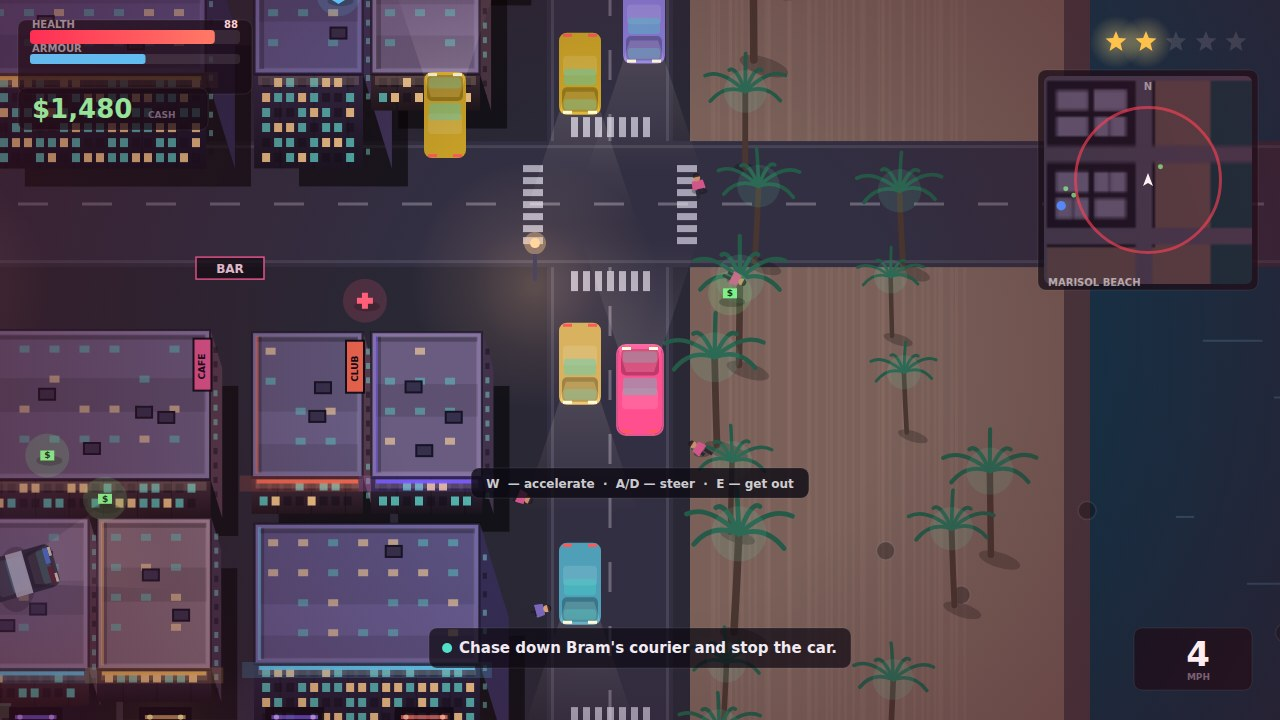
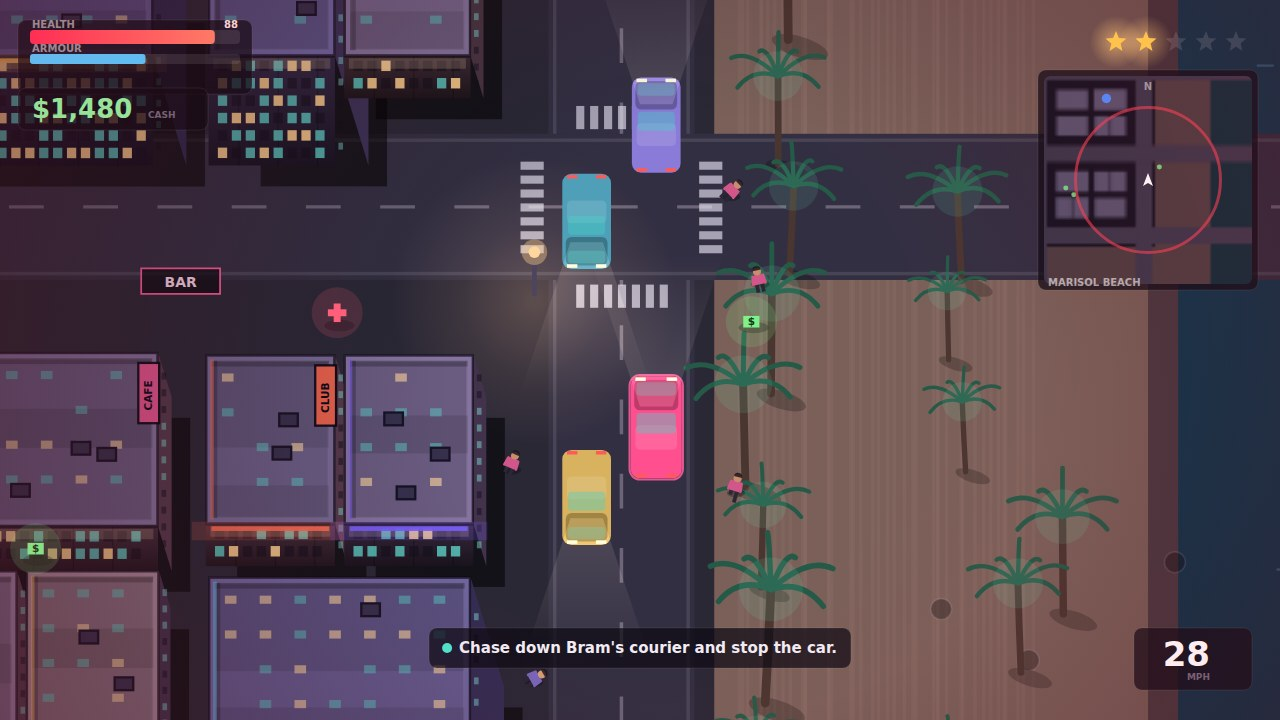
screenshots: real renders of the cover, on-foot, wanted chase and mission briefing
Four deterministic ?shot=N stages captured in headless Chrome at 1280x720
(108-117 KiB each): cover on the coastal avenue with traffic and a live
objective, on-foot beside the Coral Room with Dessa's dialogue, a four-star
pursuit with cruisers boxing the hero in, and the Pay-In briefing card.
Camera framing, staged traffic spacing and the cop-car livery were retuned
so each scene reads at a glance.

diff --git a/game/src/shots.js b/game/src/shots.js
@@ -25,6 +25,11 @@ export function applyShot(world, index) {
       w: 44,
       h: 88,
     });
+    // Caught at cruising speed: a still of a parked car reads as a parked car.
+    car.speed = 330;
+    car.vx = Math.cos(car.angle) * 330;
+    car.vy = Math.sin(car.angle) * 330;
+    car.stageAnchor = { x: car.x, y: car.y };
     world.cars.push(car);
     p.inCar = car;
     p.x = car.x;
@@ -40,40 +45,41 @@ export function applyShot(world, index) {
     world.missionManager.setStep(0);
     // Objective line only — the briefing box would eat half the frame in a still.
     world.missionManager.dialogueIndex = world.missionManager.dialogue.length;
-    world.combat.addPickup(avenue + 120, 1460, 'cash', 60);
-    // Own lane stays clear so the car actually rolls; the oncoming lane and the far
-    // block behind carry the traffic that makes the street read as alive.
-    // Traffic lives in the opposite lane (and one car well ahead in ours), so nothing can
-    // rear-end the hero two frames in and spin it sideways mid-capture.
+    world.combat.addPickup(avenue + 112, 1466, 'cash', 60);
+    // The hero is pinned at its mark; staged cars keep their own speed, so they're placed
+    // where they'll be ~1.15 s after load rather than where they start. Both lanes carry
+    // traffic: the avenue should read as a street in use, not a runway.
     addShotCars(world, [
-      [avenue - 30, 1720, Math.PI / 2, '#4f9fb8'],
-      [avenue - 30, 1500, Math.PI / 2, '#d8b25f'],
-      [avenue - 30, 1210, Math.PI / 2, '#c9a227'],
-      [avenue - 30, 940, Math.PI / 2, '#c8556f'],
-      [avenue + 30, 980, -Math.PI / 2, '#8a7bd8'],
-      [avenue + 30, 560, -Math.PI / 2, '#7ec8a0'],
+      // Placed where the shutter sees them, and held there: a car given a velocity for
+      // 1.15 s of load grace ends up half a block from where the shot was composed.
+      [avenue + 30, 1300, -Math.PI / 2, '#8a7bd8'],
+      [avenue - 30, 1382, Math.PI / 2, '#4f9fb8'],
+      [avenue - 30, 1620, Math.PI / 2, '#d8b25f'],
     ]);
     for (const c of world.cars) {
-      if (c.staged) c.vy = c.vy > 0 ? 210 : -240;
+      if (!c.staged) continue;
+      c.vx = 0;
+      c.vy = 0;
+      c.stageHold = true;
     }
     addShotPeds(world, [
-      [avenue + 96, 1620], [avenue + 118, 1440], [avenue - 96, 1660], [avenue + 90, 1360],
+      [avenue + 96, 1620], [avenue + 120, 1440], [avenue - 98, 1600], [avenue + 92, 1360],
     ]);
     // Ambient traffic keeps spawning on its own schedule and was parking itself on top
-    // of the hero. Keep only the staged cars, the cruisers, and anything genuinely far away.
-    world.cars = world.cars.filter((c) => c === car || c.staged
-      || Math.hypot(c.x - car.x, c.y - car.y) > 300);
+    // of the hero. Keep only the staged cars and the hero inside the frame.
+    world.cars = world.cars.filter((c) => c === car || c.staged);
     world.traffic.cars = world.cars.filter((c) => c.driver === 'traffic');
     world.traffic.target = 0;
-    world.hint = 'W  — accelerate  ·  A/D — steer  ·  E — get out';
-    return { offset: { x: 0, y: -30 }, zoom: 1.0, autoThrottle: 1, lockCamera: true };
+    // No tutorial hint on the cover: it lands dead centre and cuts the hero car in half.
+    world.hint = '';
+    return { offset: { x: -10, y: 6 }, zoom: 1.2, stageSpeed: 330, lockCamera: true };
   }
 
   if (n === 2) {
     // On foot: the sidewalk in front of the Coral Room, the delivery marker glowing over
     // the door, pedestrians about, cash on the ground. The whole first job in one frame.
     const door = { x: ROAD_X[1] + 360, y: ROAD_Y[1] - 250 };
-    const stand = safePoint(city, door.x + 54, door.y + 96);
+    const stand = safePoint(city, door.x - 14, door.y + 104);
     p.x = stand.x;
     p.y = stand.y;
     p.heading = -Math.PI / 2;
@@ -85,7 +91,7 @@ export function applyShot(world, index) {
     world.missionManager.start(0);
     world.missionManager.state = 'active';
     world.missionManager.setStep(1);
-    world.combat.addPickup(p.x + 104, p.y + 26, 'cash', 120);
+    world.combat.addPickup(p.x + 168, p.y - 34, 'cash', 120);
     world.combat.addPickup(p.x - 150, p.y - 90, 'health', 35);
     addShotPeds(world, [
       [p.x + 96, p.y - 96], [p.x - 74, p.y - 40], [p.x + 168, p.y + 70],
@@ -99,7 +105,7 @@ export function applyShot(world, index) {
       [p.x + 470, p.y + 96, 0, '#8a7bd8'],
     ]);
     world.hint = 'WASD to walk  ·  SHIFT to sprint  ·  click to fire';
-    return { offset: { x: 4, y: 30 }, zoom: 2.15, lockCamera: true };
+    return { offset: { x: -4, y: -34 }, zoom: 1.8, lockCamera: true };
   }
 
   if (n === 3) {
@@ -133,7 +139,7 @@ export function applyShot(world, index) {
     // survives the car rolling forward.
     world.police.stage = true;
     const slot = [
-      [-78, -150], [96, -192], [-16, -238], [-132, -282], [110, -326],
+      [-104, -48], [104, -60], [-48, -104], [-152, -128], [132, -120],
     ];
     for (let i = 0; i < slot.length; i++) {
       const cop = world.police.spawnCop({ player: { x: car.x, y: car.y + slot[i][1], heading: Math.PI / 2 } });
@@ -156,13 +162,13 @@ export function applyShot(world, index) {
     // mid-capture, and their headlights read as more cops. Nothing new spawns either,
     // so the frame stays the frame.
     world.cars = world.cars.filter((c) => c === car || c.driver === 'cop'
-      || Math.abs(c.x - car.x) > 130 || c.y < car.y - 560 || c.y > car.y + 300);
+      || Math.abs(c.x - car.x) > 150 || c.y < car.y - 480 || c.y > car.y + 260);
     world.traffic.cars = world.cars.filter((c) => c.driver === 'traffic');
     world.traffic.target = 0;
     world.hint = 'WASD — drive  ·  SPACE — handbrake  ·  E — bail out';
     // Player a little below centre, the cruisers stacked up the frame above them, and
     // enough city either side that the shot reads as a street rather than a corridor.
-    return { offset: { x: 0, y: -60 }, zoom: 1.0, autoThrottle: 0.55, lockCamera: true };
+    return { offset: { x: 0, y: 24 }, zoom: 1.5, autoThrottle: 0.55, lockCamera: true };
   }
 
   // 4 — mission briefing over the street.
@@ -183,9 +189,13 @@ export function applyShot(world, index) {
 function addShotCars(world, list) {
   for (const [x, y, angle, color] of list) {
     const car = makeCar({ x, y, angle, color, kind: 'sedan', driver: 'traffic' });
-    car.traffic = { lane: 1, dirX: 0, dirY: 1, nodeIndex: 0, route: [{ x, y: y + 600 }], target: { x, y: y + 600 } };
-    car.vx = Math.cos(angle) * 60;
-    car.vy = Math.sin(angle) * 60;
+    // The route has to run the way the car is pointing: a northbound car given a
+    // southbound target just U-turns on the spot and ends up diagonal across the lane.
+    const tx = x + Math.cos(angle) * 600;
+    const ty = y + Math.sin(angle) * 600;
+    car.traffic = { lane: 1, dirX: 0, dirY: 0, nodeIndex: 0, route: [{ x, y: ty }], target: { x: tx, y: ty } };
+    car.vx = Math.cos(angle) * 160;
+    car.vy = Math.sin(angle) * 160;
     car.staged = true;
     world.cars.push(car);
   }

diff --git a/game/src/render.js b/game/src/render.js
@@ -811,20 +811,42 @@ function drawCopCar(ctx, c, time) {
   const w = c.w ?? 42;
   const h = c.h ?? 80;
   // White doors on the dark liveried body.
-  ctx.fillStyle = 'rgba(240,240,250,0.85)';
+  ctx.fillStyle = 'rgba(240,240,250,0.9)';
   ctx.fillRect(-w / 2, -h * 0.16, w, h * 0.2);
-  // Light bar, alternating blue and red.
-  const phase = Math.sin(time * 12 + c.x) > 0;
-  ctx.fillStyle = phase ? '#4f8bff' : '#20306a';
-  ctx.fillRect(-w / 2 + 4, -h * 0.5 + 4, w / 2 - 6, 5);
-  ctx.fillStyle = phase ? '#662030' : '#ff4257';
-  ctx.fillRect(1, -h * 0.5 + 4, w / 2 - 5, 5);
+  // Roof light bar: two fat blocks, one lit hard, one dim. A cruiser has to read as a
+  // cruiser from across the street, not just up close.
+  const phase = Math.sin(time * 8 + c.x * 0.5) > 0;
+  const barY = -h * 0.34;
+  const barH = Math.max(7, h * 0.1);
+  ctx.fillStyle = phase ? '#5b93ff' : '#1b2547';
+  ctx.fillRect(-w / 2 + 3, barY, w / 2 - 4, barH);
+  ctx.fillStyle = phase ? '#4a1620' : '#ff3d54';
+  ctx.fillRect(1, barY, w / 2 - 4, barH);
+  ctx.shadowColor = phase ? 'rgba(95,150,255,0.95)' : 'rgba(255,60,90,0.95)';
+  ctx.shadowBlur = 16;
+  ctx.fillStyle = phase ? '#b9d3ff' : '#ffb3be';
+  ctx.fillRect(phase ? -w / 2 + 5 : 3, barY + 1, w / 2 - 8, Math.max(3, barH - 3));
+  ctx.shadowBlur = 0;
+  // A rear-facing bar too: in a chase the player is looking at the back of the cruisers,
+  // and a cruiser seen from behind has to flash red and blue like one.
+  const rearY = h * 0.18;
+  ctx.fillStyle = phase ? '#2a1a24' : '#4a1620';
+  ctx.fillRect(-w / 2 + 4, rearY, w / 2 - 5, Math.max(6, h * 0.07));
+  ctx.fillStyle = phase ? '#7fb4ff' : '#ff5566';
+  ctx.shadowColor = phase ? 'rgba(127,180,255,0.95)' : 'rgba(255,85,102,0.95)';
+  ctx.shadowBlur = 18;
+  ctx.fillRect(-w / 2 + 5, rearY + 1, w / 2 - 7, Math.max(4, h * 0.05));
+  ctx.fillStyle = phase ? '#ff5566' : '#7fb4ff';
+  ctx.shadowColor = phase ? 'rgba(255,85,102,0.95)' : 'rgba(127,180,255,0.95)';
+  ctx.fillRect(1, rearY + 1, w / 2 - 7, Math.max(4, h * 0.05));
+  ctx.shadowBlur = 0;
   ctx.restore();
   // Glow
-  const r = 90 + Math.sin(time * 10) * 10;
-  const g = ctx.createRadialGradient(c.x, c.y, 8, c.x, c.y, r);
-  const col = Math.sin(time * 12 + c.x) > 0 ? '80,140,255' : '255,60,90';
-  g.addColorStop(0, `rgba(${col},0.18)`);
+  const r = 132 + Math.sin(time * 10) * 14;
+  const g = ctx.createRadialGradient(c.x, c.y, 6, c.x, c.y, r);
+  const col = Math.sin(time * 8 + c.x * 0.5) > 0 ? '90,150,255' : '255,55,85';
+  g.addColorStop(0, `rgba(${col},0.55)`);
+  g.addColorStop(0.45, `rgba(${col},0.2)`);
   g.addColorStop(1, `rgba(${col},0)`);
   ctx.fillStyle = g;
   ctx.beginPath();

diff --git a/game/src/main.js b/game/src/main.js
@@ -373,6 +373,21 @@ function updateDriving(dt) {
   const throttle = shotConfig?.autoThrottle ?? ((input.up ? 1 : 0) - (input.down ? 1 : 0));
   const steer = (input.right ? 1 : 0) - (input.left ? 1 : 0);
   driveCar(car, { throttle, steer, handbrake: input.handbrake }, dt, city);
+  // A staged capture also fixes the cruising speed, so the frame looks the same whether
+  // the shutter fires at 0.9s or 2s after load.
+  const stageSpeed = shotConfig?.stageSpeed;
+  if (typeof stageSpeed === 'number') {
+    car.speed = stageSpeed;
+    car.vx = Math.cos(car.angle) * stageSpeed;
+    car.vy = Math.sin(car.angle) * stageSpeed;
+    // ...and holds its mark: a car that keeps driving during the load grace period ends
+    // up a block away from where the shot was composed by the time the shutter fires.
+    const anchor = car.stageAnchor;
+    if (anchor) {
+      car.x = anchor.x;
+      car.y = anchor.y;
+    }
+  }
   p.x = car.x;
   p.y = car.y;
   p.aim = car.angle;
